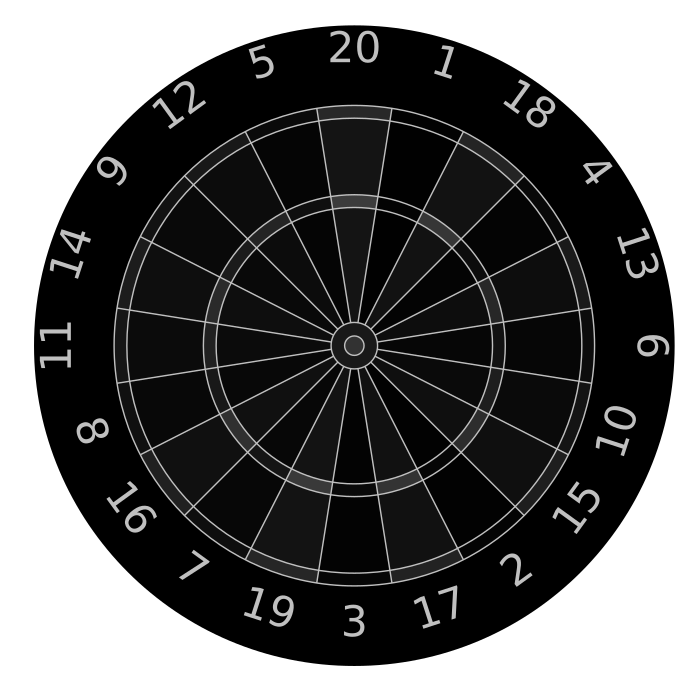
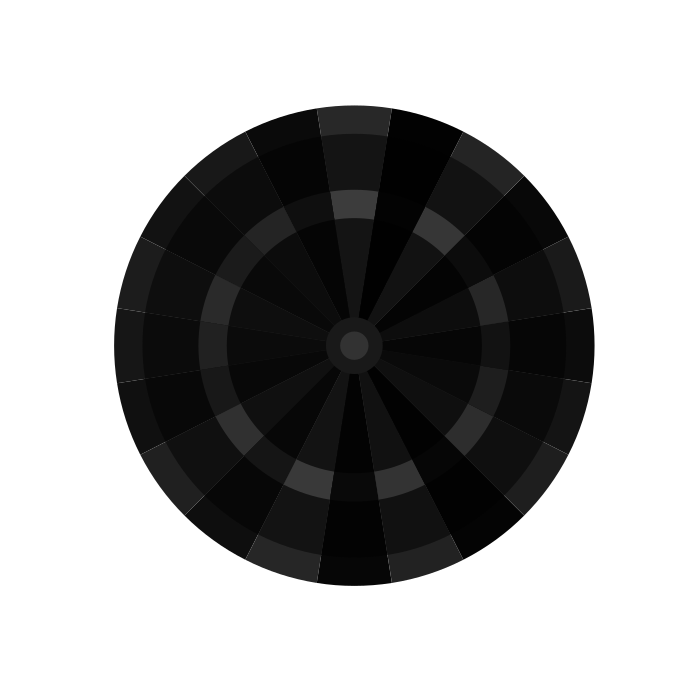
DartBoard

diff --git a/src/DartBoard.java b/src/DartBoard.java
@@ -15,9 +15,9 @@ public class DartBoard extends JLabel implements MouseListener {
 
     public DartBoard(){
         try{
-
             this.picture_mouse = ImageIO.read(new File("src/Dartboard_black.png"));
-            this.setIcon(new ImageIcon(picture_mouse));
+            BufferedImage dartboard = ImageIO.read(new File("src/Dartboard.png"));
+            this.setIcon(new ImageIcon(dartboard));
             this.addMouseListener(this);
         } catch (IOException ex){}
     }

diff --git a/src/StartDialogController.java b/src/StartDialogController.java
@@ -1,10 +1,6 @@
 import java.awt.event.ActionEvent;
 import java.awt.event.ActionListener;
-import java.io.IOException;
 
-/**
- * Created by ronnyzingler on 21.02.17.
- */
 public class StartDialogController implements ActionListener {
 
     private StartDialog sd;
